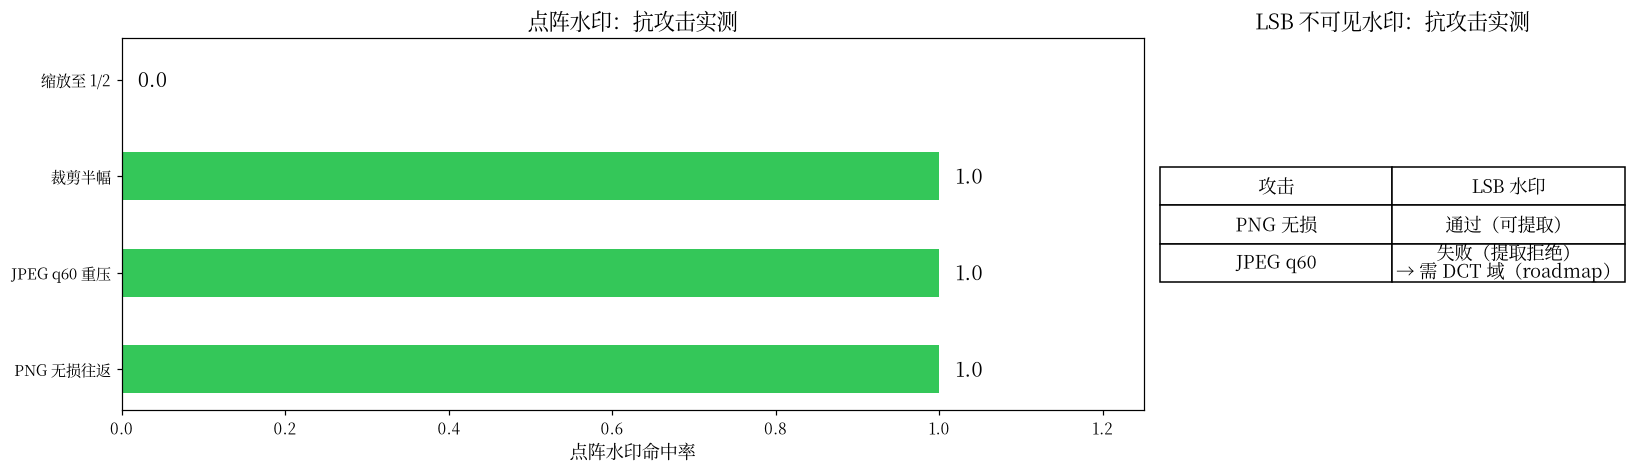
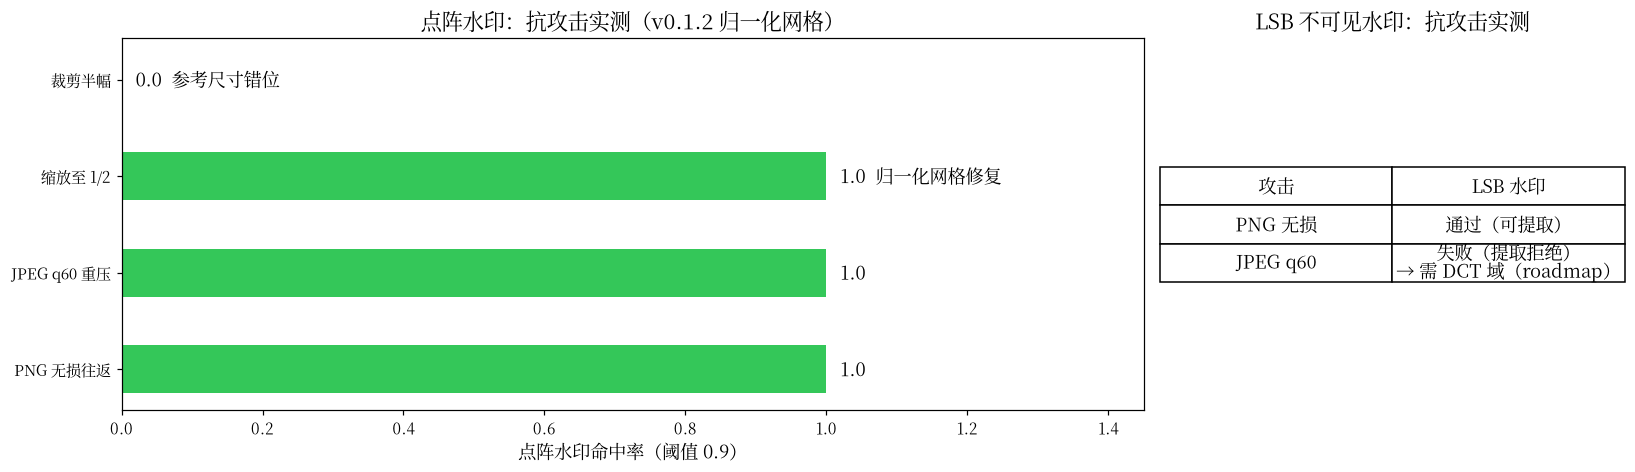
feat: normalized grid dots (resize-robust, even-aligned, 3px default) + docs & matrix

diff --git a/README.md b/README.md
@@ -106,13 +106,14 @@ let rate = @lib.extract_dots(back, dcfg)   // ≥0.9 判定水印存在
 | --- | --- | --- | --- |
 | PNG 无损往返 | 1.0 ✅ | 可提取 ✅ | LSB 的可靠载体 |
 | JPEG q60 重压 | 1.0 ✅ | 提取失败 ❌ | 深色点高对比经 JPEG 保留；LSB 被量化破坏 → JPEG 场景需 DCT 域水印（roadmap） |
-| 裁剪半幅（保留行格） | 1.0 ✅ | — | 点阵网格按行列索引相对化，裁剪不破坏行格时完全命中 |
-| 缩放至 1/2（Nearest） | 0.0 ❌ | — | 像素网格重采样后点位置错位；缩放鲁棒需频域方案（roadmap） |
+| 缩放至 1/2（Nearest） | 1.0 ✅ | — | 归一化网格 + 偶数对齐 + 邻域容差（v0.1.2 起）；1px 点在缩放中会丢失，默认点尺寸提升至 3px |
+| 裁剪半幅 | 0.0 ⚠ | — | 归一化网格按新尺寸采样、而裁剪内容是原坐标像素 → 错位；纯裁剪攻击建议整幅重嵌或配合 LSB 水印 |
 
 ## 设计说明
 
 - **颜色打包**：`0xRRGGBBAA`。MoonBit `Int` 为 32 位有符号，`0xFFFF_FFFF` 等高位字面量会表示为负数——位运算完全等价，无需担心；推荐用 `(r << 16) | (g << 8) | b | (a << 24)` 构造颜色。
 - **确定性**：点阵水印完全由 `DotConfig`（含 seed）决定，这是提取与溯源的基础。
+- **归一化网格**：点阵落点按比例坐标（单元 = 图宽 8%），点坐标对齐偶数像素，因此缩放后仍可提取；代价是纯裁剪会因参考尺寸改变而错位（见鲁棒性矩阵）。
 - **PNG 无损往返**：PNG 编码/解码不损失 LSB 信息，是不可见水印的载体（见路线图）。
 
 ## 生态区分
